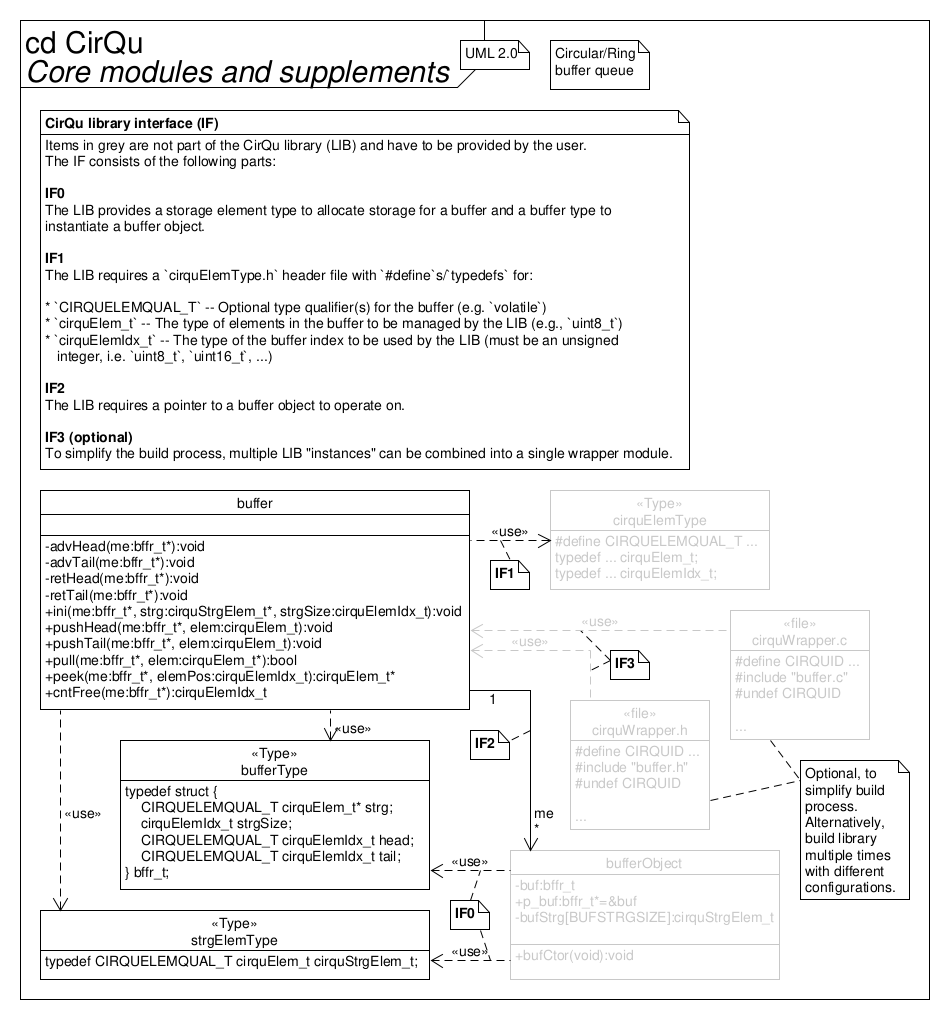
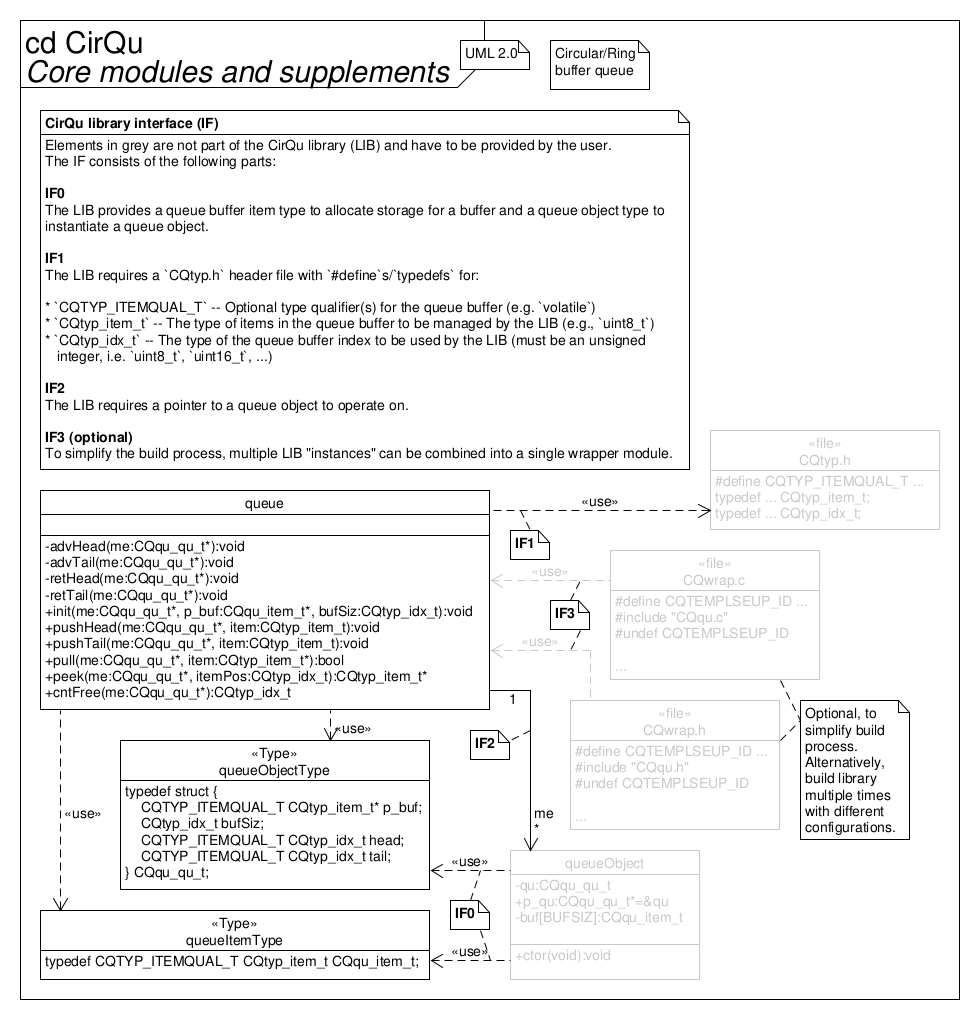
Update UML documentation

diff --git a/README.md b/README.md
@@ -212,7 +212,7 @@ CQqu_init0(...);
 
 ![UML class diagram](./doc/arc/figures/cirqu-cd.png)
 
-![Example buffer object](./doc/arc/figures/cirqu-example-bffr-obj-cstmd.png)
+![Example queue object](./doc/arc/figures/cirqu-ex-qu-obj-cstmd.png)
 
 ![UML package diagram](./doc/arc/figures/cirqu-pd.png)
 
